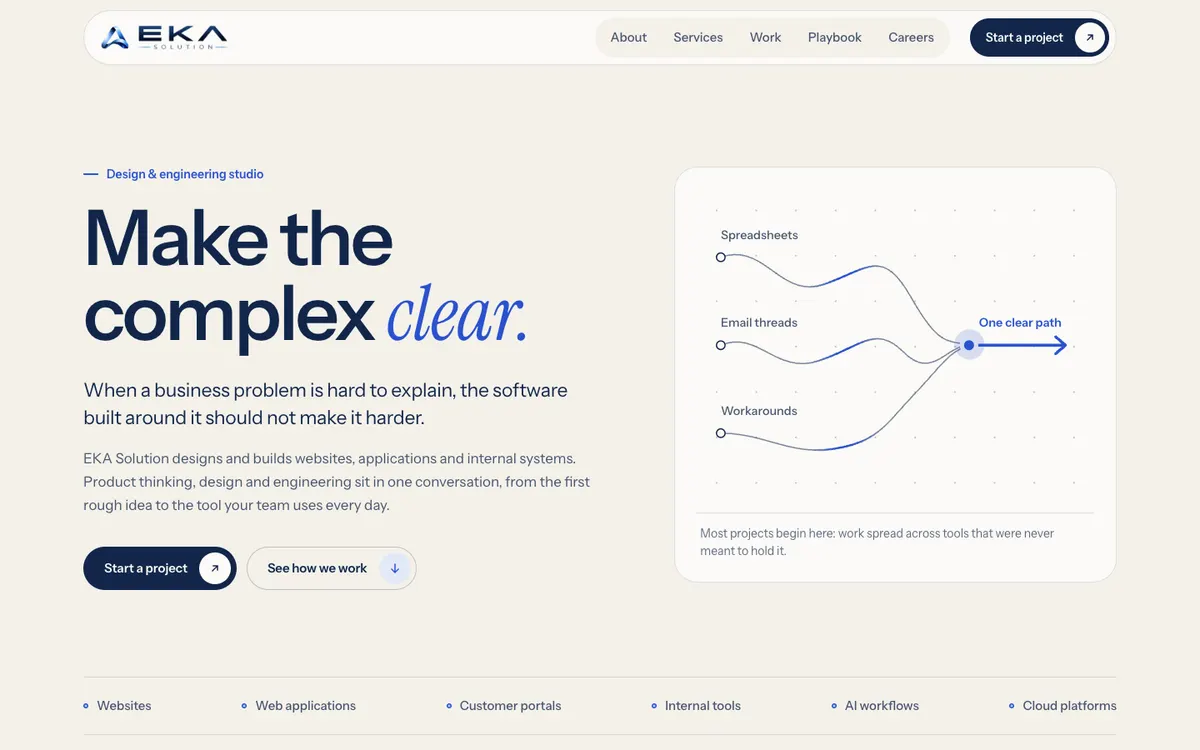
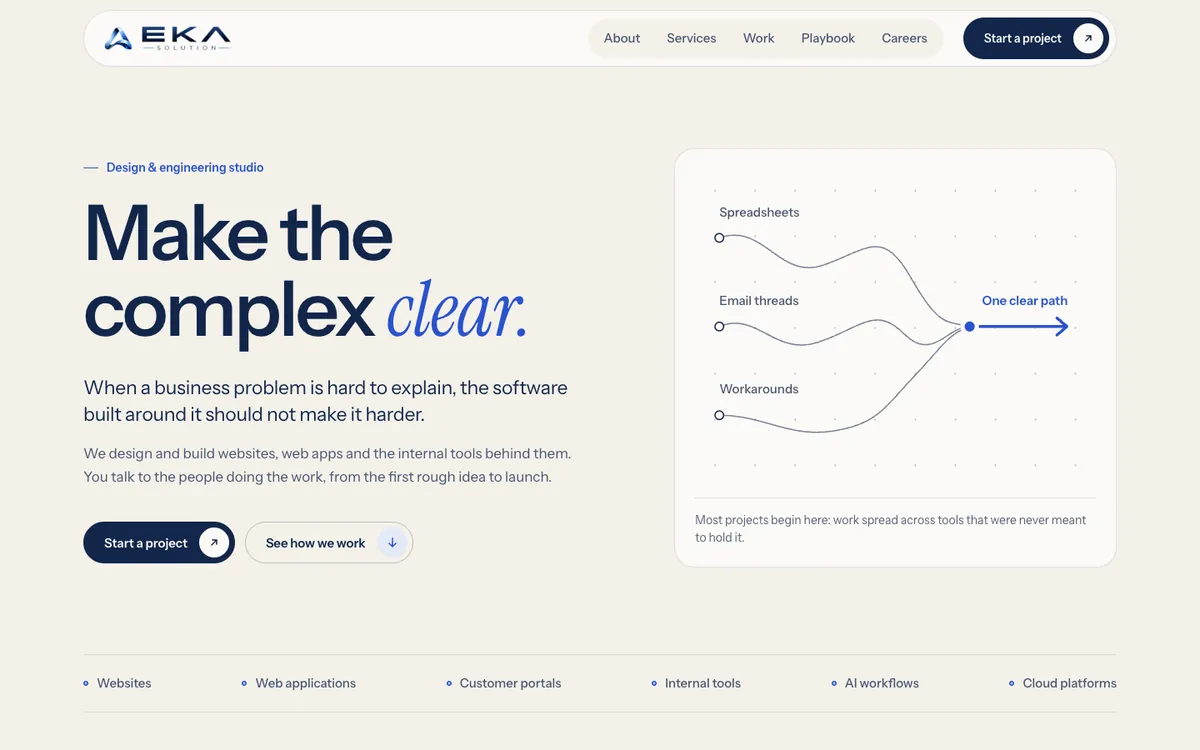
feat: set Work's decisions as annotations and load its image eagerly
The three decision cards become annotated rows (label, title, note) on
hairlines. The case image is re-captured from the current homepage and
served at 720 or 1200px. It stays eager because it is the phone LCP
element, which Lighthouse flagged when it was lazy-loaded. The closing
card now asks for the next project rather than repeating a slogan.

diff --git a/src/pages/WorkPage.jsx b/src/pages/WorkPage.jsx
@@ -26,7 +26,15 @@ export default function WorkPage() {
         <div className="wrap case-feature">
           <figure className="browser">
             <div className="vg-bar"><i /><i /><i /><span>ekasolution.com</span></div>
-            <img src="/assets/work-eka-home.webp" alt="The EKA Solution homepage: the headline “Make the complex clear.” beside a diagram of three paths joining into one" width="1440" height="900" loading="lazy" decoding="async" />
+            <img
+              src="/assets/work-eka-home.webp"
+              srcSet="/assets/work-eka-home-720.webp 720w, /assets/work-eka-home.webp 1200w"
+              sizes="(max-width: 1080px) calc(100vw - 40px), 700px"
+              alt="The EKA Solution homepage: the headline “Make the complex clear.” beside a diagram of three paths joining into one"
+              width="1200"
+              height="750"
+              decoding="async"
+            />
           </figure>
           <div className="case-copy">
             <Eyebrow>In-house project</Eyebrow>
@@ -45,27 +53,24 @@ export default function WorkPage() {
       <section className="section" aria-labelledby="decisions-title">
         <div className="wrap">
           <div className="split-head">
-            <div>
-              <Eyebrow>Notes from the process</Eyebrow>
-              <h2 id="decisions-title" className="h-section">Three decisions behind the page.</h2>
-            </div>
+            <h2 id="decisions-title" className="h-section">Three decisions behind the page.</h2>
             <TextLink to="/playbook">See the process we followed</TextLink>
           </div>
-          <div className="decision-cards">
+          <ol className="annotations">
             {DECISIONS.map(([tag, title, body]) => (
-              <article className="decision-card card" key={tag}>
-                <small>{tag}</small>
+              <li key={tag}>
+                <p className="annotation-tag">{tag}</p>
                 <h3 className="h-card">{title}</h3>
-                <p>{body}</p>
-              </article>
+                <p className="annotation-text">{body}</p>
+              </li>
             ))}
-          </div>
+          </ol>
           <p className="honesty-note">These notes describe this website only. They make no claims about results for unnamed clients.</p>
         </div>
       </section>
 
-      <ClosingCta eyebrow="Your project" title={<>A different context. <em>Same care.</em></>}>
-        Tell us what needs to change. We will start by understanding it.
+      <ClosingCta eyebrow="Your project" title={<>Could yours be the next one <em>on this page?</em></>}>
+        Tell us what needs to change. If we work together and you are happy to share it, your project could be the next case we write up here.
       </ClosingCta>
     </div>
   );

diff --git a/src/site.css b/src/site.css
@@ -525,10 +525,11 @@ main[id], section[id] { scroll-margin-top: 104px; }
 .case-meta dt { color: var(--ink-3); font-size: 13px; }
 .case-meta dd { margin: 2px 0 0; font-size: 15px; font-weight: 600; }
 .case-copy .body + .body { margin-top: 14px; }
-.decision-cards { display: grid; grid-template-columns: repeat(3, minmax(0, 1fr)); gap: 16px; }
-.decision-card { padding: 28px; }
-.decision-card small { display: block; margin-bottom: 36px; color: var(--blue); font-size: 13px; font-weight: 600; }
-.decision-card p { margin-top: 12px; color: var(--ink-2); font-size: 16px; line-height: 1.6; }
+/* Decisions as annotations: a label, a title and a note on one hairline row each. */
+.annotations { margin: 0; padding: 0; list-style: none; border-bottom: 1px solid var(--line); }
+.annotations li { display: grid; grid-template-columns: minmax(0, 2fr) minmax(0, 4fr) minmax(0, 6fr); align-items: baseline; gap: var(--s2) var(--s4); padding: var(--s4) 0; border-top: 1px solid var(--line-strong); }
+.annotation-tag { color: var(--blue); font-size: 14px; font-weight: 600; }
+.annotation-text { max-width: 54ch; color: var(--ink-2); font-size: 16px; line-height: 1.6; }
 .honesty-note { max-width: 70ch; margin-top: 32px; color: var(--ink-3); font-size: 15px; line-height: 1.6; }
 
 /* ---------- Playbook ---------- */
@@ -724,7 +725,8 @@ main[id], section[id] { scroll-margin-top: 104px; }
   .page-index ul { flex-direction: column; }
   .page-index li + li a { padding-left: 0; border-left: 0; border-top: 1px solid var(--line); }
   .page-index a { padding-right: 0; }
-  .voices-layout, .notes, .decision-cards, .after-hello, .founding-band, .founding-why { grid-template-columns: 1fr; }
+  .voices-layout, .notes, .after-hello, .founding-band, .founding-why { grid-template-columns: 1fr; }
+  .annotations li { grid-template-columns: 1fr; gap: var(--s1); padding: var(--s3) 0; }
   .notes li, .notes li + li { padding: var(--s3) 0; border-left: 0; border-bottom: 1px solid var(--line); }
   .moment { justify-items: start; text-align: left; }
   .moment-links { justify-content: flex-start; }
